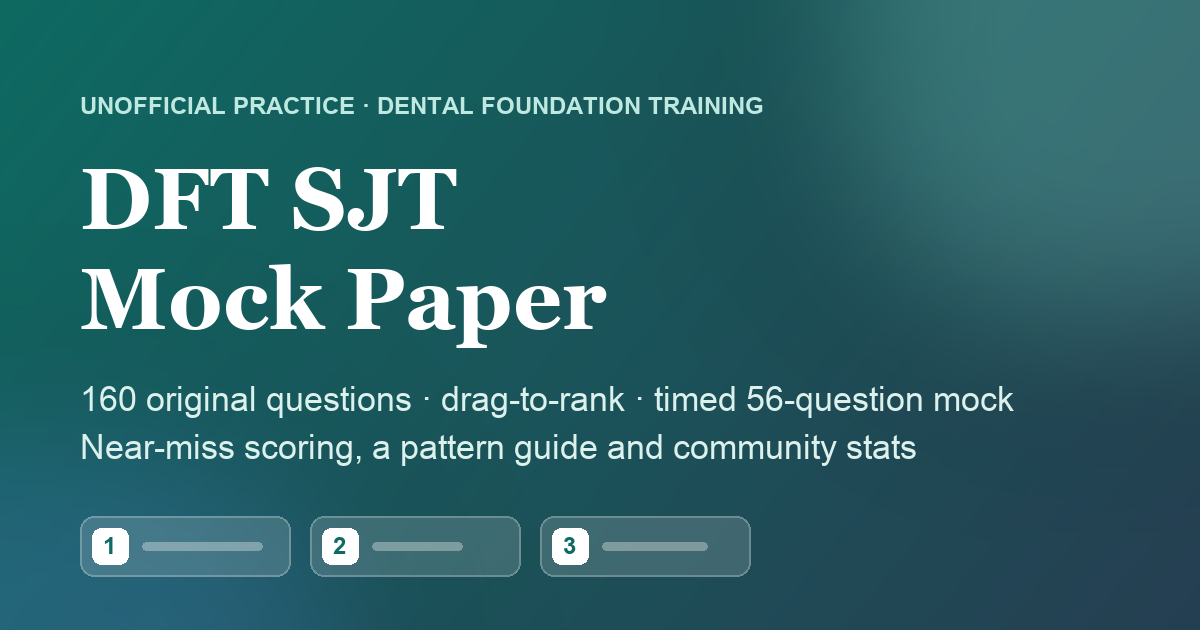
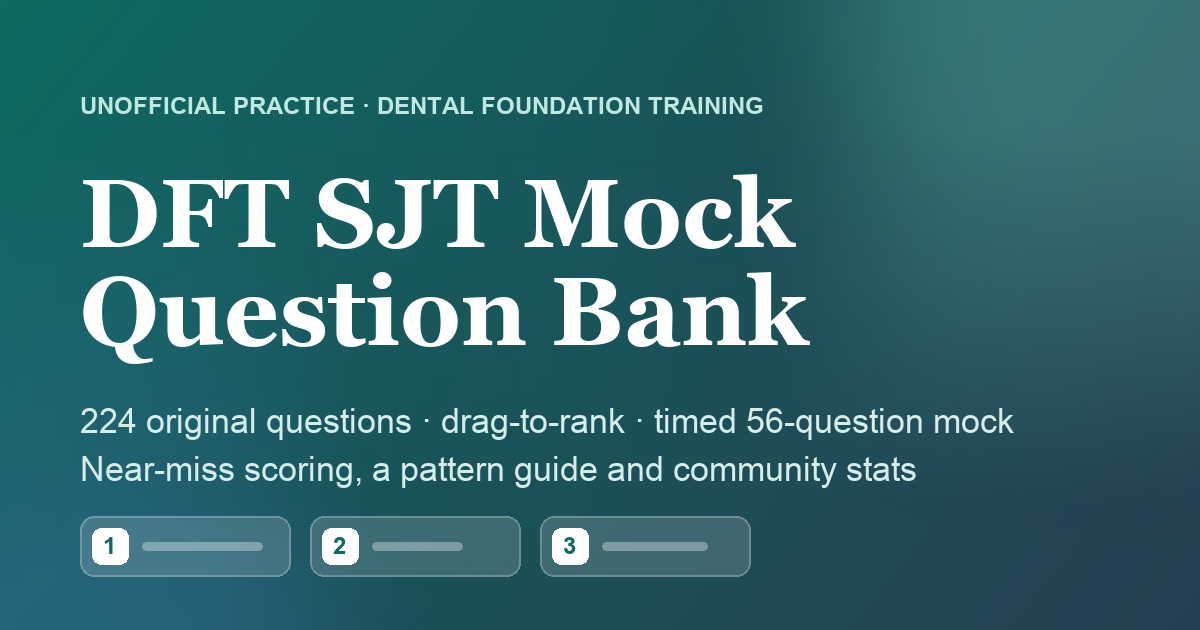
Rename the site to DFT SJT Mock Question Bank; refresh the social preview image

Changed region(s): [[0.0617, 0.6032, 0.8633, 0.7841], [0.0617, 0.4222, 0.6783, 0.573], [0.0617, 0.2413, 0.6783, 0.3921]]

diff --git a/docs/index.html b/docs/index.html
@@ -3,7 +3,7 @@
 <head>
 <meta charset="utf-8">
 <meta name="viewport" content="width=device-width, initial-scale=1, viewport-fit=cover">
-<title>DFT SJT Mock Paper</title>
+<title>DFT SJT Mock Question Bank</title>
 <meta name="description" content="Unofficial practice for the Dental Foundation Training SJT: 224 original questions, including four Advanced papers, with drag-to-rank, near-miss scoring, a pattern guide and community stats.">
 <meta name="theme-color" content="#0E6A62" media="(prefers-color-scheme: light)">
 <meta name="theme-color" content="#0E1413" media="(prefers-color-scheme: dark)">
@@ -15,14 +15,14 @@
 <meta name="mobile-web-app-capable" content="yes">
 <meta name="apple-mobile-web-app-status-bar-style" content="default">
 <meta property="og:type" content="website">
-<meta property="og:site_name" content="DFT SJT Mock Paper">
-<meta property="og:title" content="DFT SJT Mock Paper: free practice for the dental SJT">
+<meta property="og:site_name" content="DFT SJT Mock Question Bank">
+<meta property="og:title" content="DFT SJT Mock Question Bank: free practice for the dental SJT">
 <meta property="og:description" content="224 original practice questions with drag-to-rank, a timed 56-question mock, near-miss scoring and a pattern guide.">
 <meta property="og:url" content="https://sajeev2112.github.io/dft-sjt-mock/">
 <meta property="og:image" content="https://sajeev2112.github.io/dft-sjt-mock/og-image.png">
 <meta property="og:image:width" content="1200">
 <meta property="og:image:height" content="630">
-<meta property="og:image:alt" content="DFT SJT Mock Paper: 224 original questions, drag-to-rank and a timed mock">
+<meta property="og:image:alt" content="DFT SJT Mock Question Bank: 224 original questions, drag-to-rank and a timed mock">
 <meta name="twitter:card" content="summary_large_image">
 <link rel="preconnect" href="https://fonts.googleapis.com">
 <link rel="preconnect" href="https://fonts.gstatic.com" crossorigin>
@@ -38,7 +38,7 @@
   <header class="top">
     <div>
       <p class="eyebrow">Unofficial practice · Dental Foundation Training SJT</p>
-      <h1>DFT SJT Mock Paper</h1>
+      <h1>DFT SJT Mock Question Bank</h1>
     </div>
     <nav class="views" aria-label="Sections">
       <button type="button" data-act="view" data-v="practice">Practice</button>

diff --git a/docs/sw.js b/docs/sw.js
@@ -1,6 +1,6 @@
 // Offline support. The site's own files load network-first, so updates show straight away when online;
 // fonts and the drag library load cache-first. API calls are never cached.
-const VERSION = "254fbc9bc0"; // set by tools/build.js
+const VERSION = "11a43ddf00"; // set by tools/build.js
 const CACHE = "dft-sjt-" + VERSION;
 const CORE = [
   "./", "styles.css", "design.css", "questions.js", "guide.js", "app.js", "design.js", "phrases.js", "standards.js", "explain.js", "exam.js", "exam.css", "tags.js", "studyplan.js",

diff --git a/docs/questions.js b/docs/questions.js
@@ -1,4 +1,4 @@
-// Question bank for the DFT SJT Mock Paper.
+// Question bank for the DFT SJT Mock Question Bank.
 // Paper 1 = Q1–32 (standard), Paper 2 = Q33–64 (harder), Paper 3 = Q65–96 (harder), Paper 4 = Q97–128 (advanced), Paper 5 = Q129–160 (advanced), Paper 6 = Q161–192 (advanced), Paper 7 = Q193–224 (advanced).
 // Each item: t = type, d = domain, g = theme, a = archetype, k = key (in authoring order),
 // s = scenario, o = [option, justification] pairs, tk = takeaway.

diff --git a/src/worker.js b/src/worker.js
@@ -1,4 +1,4 @@
-// Cloudflare Worker for the DFT SJT Mock Paper.
+// Cloudflare Worker for the DFT SJT Mock Question Bank.
 // Serves the static site from ./docs and a small anonymous API backed by D1:
 //   POST /api/answers   first-attempt answers, keyed by a random client id
 //   GET  /api/stats?q=N how everyone answered question N

diff --git a/docs/app.js b/docs/app.js
@@ -1,5 +1,5 @@
 "use strict";
-// DFT SJT Mock Paper: practice sets, results, the guide, settings and anonymous community stats.
+// DFT SJT Mock Question Bank: practice sets, results, the guide, settings and anonymous community stats.
 
 const PAPERS = {
   p1:{name:"Paper 1", from:0, to:32},

diff --git a/README.md b/README.md
@@ -1,4 +1,4 @@
-# DFT SJT Mock Paper
+# DFT SJT Mock Question Bank
 
 An unofficial practice site for the UK Dental Foundation Training (DFT) Situational Judgement Test.
 
